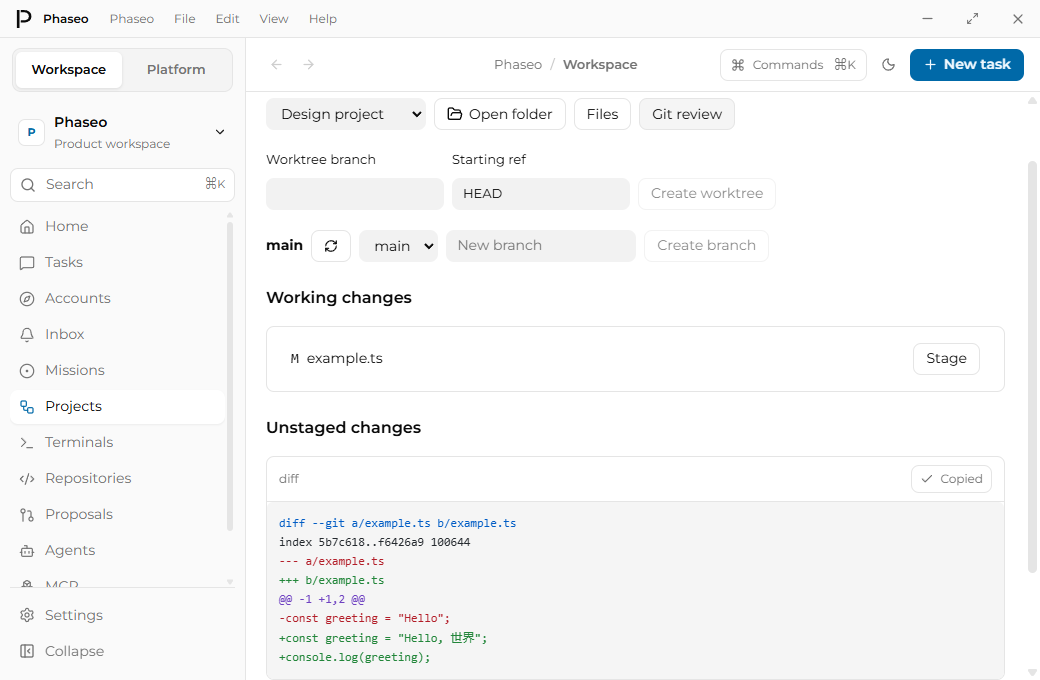
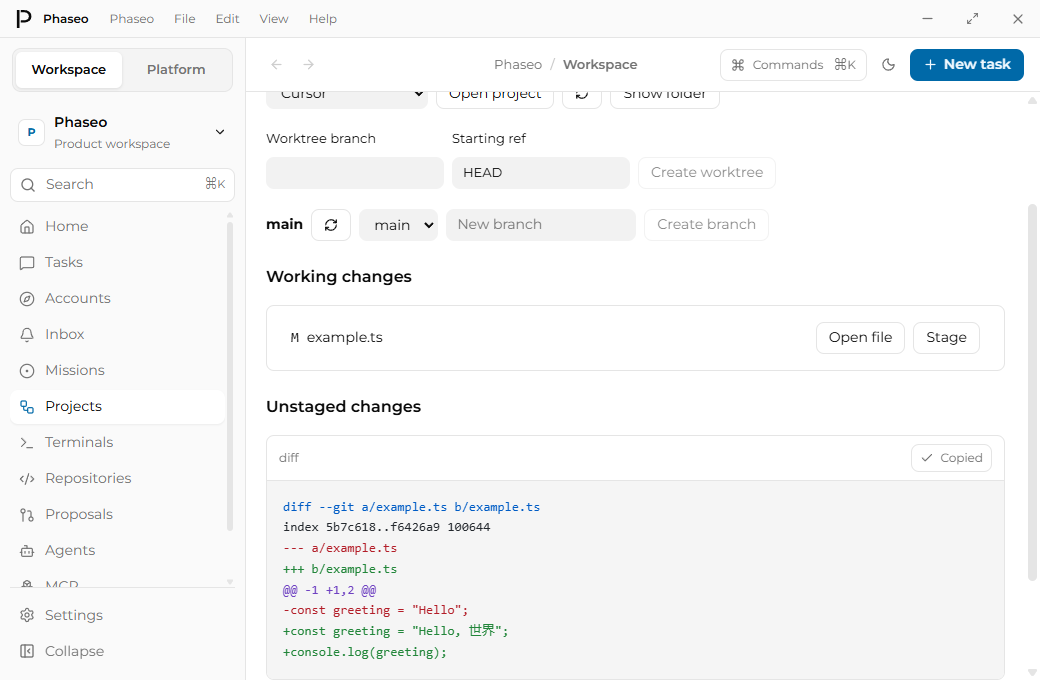
feat(desktop): open projects and files in external editors

diff --git a/apps/desktop/src/renderer/views/Projects.tsx b/apps/desktop/src/renderer/views/Projects.tsx
@@ -1,6 +1,7 @@
 import { useEffect, useRef, useState } from "react";
 import { ArrowLeft, File, Folder, FolderOpen, RefreshCw } from "lucide-react";
 import type { GitCommand, GitReview, ProjectFile } from "../../shared/workspace";
+import type { EditorId, EditorInstallation, ProjectOpenRequest } from "../../shared/editors";
 import { emptyOverview, type WorkspaceOverview } from "../../shared/workspaceOverview";
 import { CodeBlock } from "../components/MessageContent";
 import { usePersistedState } from "../lib/persistedState";
@@ -28,6 +29,19 @@ export function Projects() {
 	const [tab, setTab] = useState<"files" | "git">("files");
 	const [error, setError] = useState("");
 	const [loading, setLoading] = useState(false);
+	const [editors, setEditors] = useState<EditorInstallation[]>([]);
+	const [preferredEditor, setPreferredEditor] = usePersistedState<EditorId | undefined>("phaseo.desktop.editor", undefined);
+	const [editorRefresh, setEditorRefresh] = useState(0);
+	const [editorsLoading, setEditorsLoading] = useState(false);
+	const [editorError, setEditorError] = useState("");
+	const [editorBusy, setEditorBusy] = useState(false);
+	const editorPending = useRef(false);
+	const editor = editors.find(value => value.id === preferredEditor && value.available) ?? editors.find(value => value.available);
+	useEffect(() => {
+		if (!api) return; let active = true; setEditorsLoading(true); setEditorError("");
+		void api.editors().then(value => { if (active) setEditors(value); }, reason => { if (active) setEditorError(String(reason)); }).finally(() => { if (active) setEditorsLoading(false); });
+		return () => { active = false; };
+	}, [api, editorRefresh]);
 	const previewRequest = useRef(0);
 	useEffect(() => {
 		if (!api) return;
@@ -45,9 +59,17 @@ export function Projects() {
 		return () => { active = false; };
 	}, [api, id, directory, tab, refresh]);
 	function canNavigate() {
+		if (editorPending.current) { setError("Wait for the editor to open."); return false; }
 		if (gitBusy) { setError("Wait for the Git action to finish."); return false; }
 		if (saving || dirty) { setError("Save or discard this edit before opening another file or project."); return false; }
 		setEditing(false); return true;
+	}
+	async function openTarget(request: ProjectOpenRequest) {
+		if (!api || !id || editorPending.current || !canNavigate()) return;
+		editorPending.current = true; setEditorBusy(true); setError("");
+		try { await api.openProject(id, request); }
+		catch (reason) { setError(String(reason).replace(/^Error: Error invoking remote method '[^']+': (?:Error: )?/, "")); }
+		finally { editorPending.current = false; setEditorBusy(false); }
 	}
 	async function changeGit(command: GitCommand) {
 		if (!api || gitBusy) return;
@@ -83,11 +105,15 @@ export function Projects() {
 	}
 	return <div className="page task-workspace project-page"><section>
 		<h1>Projects</h1><div className="project-toolbar"><select aria-label="Project" value={id} onChange={event => { if (!canNavigate()) return; setId(event.target.value); setConfirmRemove(false); setDirectory(""); setPreview(undefined); setReview(undefined); }}><option value="">Choose a project</option>{workspace.projects.filter(project => !project.worktree?.removedAt).map(project => <option key={project.id} value={project.id}>{project.name}</option>)}</select><button type="button" onClick={() => { if (api) void api.chooseProject().then(setWorkspace, reason => setError(String(reason))); }}><FolderOpen size={16} /> Open folder</button><button type="button" aria-pressed={tab === "files"} onClick={() => { if (canNavigate()) setTab("files"); }}>Files</button><button type="button" aria-pressed={tab === "git"} onClick={() => { if (canNavigate()) setTab("git"); }}>Git review</button>{workspace.projects.find(project => project.id === id)?.worktree && <button type="button" disabled={gitBusy} onClick={() => { if (canNavigate()) setConfirmRemove(true); }}>Remove worktree</button>}</div>
+		{id && <div className="project-toolbar project-editor-actions" aria-label="External editor"><select aria-label="External editor" value={editor?.id ?? ""} disabled={editorsLoading || editorBusy} onChange={event => setPreferredEditor(event.target.value as EditorId)}>{!editor && <option value="">{editorsLoading ? "Finding editors…" : "No editors found"}</option>}{editors.map(value => <option key={value.id} value={value.id} disabled={!value.available}>{value.name}{!value.available ? " (unavailable)" : ""}</option>)}</select><button type="button" disabled={!editor || editorsLoading || editorBusy || gitBusy || saving || dirty} onClick={() => { if (editor) void openTarget({ editor: editor.id }); }}>Open project</button><button type="button" aria-label="Refresh editors" disabled={editorsLoading || editorBusy} onClick={() => setEditorRefresh(value => value + 1)}><RefreshCw size={14} /></button><button type="button" disabled={editorBusy || gitBusy || saving || dirty} onClick={() => void openTarget({ editor: "file-manager" })}>Show folder</button></div>}
+		{editorError && <p className="task-error" role="alert">{editorError}</p>}
+		{editorBusy && <p className="task-muted" role="status">Opening…</p>}
+		{id && !editorsLoading && !editor && !editorError && <p className="task-muted">Install an editor, then refresh the list.</p>}
 		{confirmRemove && <section className="task-setup" aria-label="Remove worktree"><p>Remove this checkout and its ignored files? The branch and conversations are retained.</p><button type="button" disabled={gitBusy} onClick={() => void removeWorktree()}>Remove checkout</button><button type="button" disabled={gitBusy} onClick={() => setConfirmRemove(false)}>Cancel</button></section>}
 		{error && <p className="task-error" role="alert">{error}</p>}
 		{loading && <p className="task-muted" role="status">Loading…</p>}
 		{!id && <p className="task-muted">Open a folder to browse files and review changes.</p>}
-		{id && tab === "files" && <div className="project-browser"><aside><button type="button" disabled={!directory} onClick={() => { if (!canNavigate()) return; setDirectory(directory.split("/").slice(0, -1).join("/")); setPreview(undefined); }}><ArrowLeft size={14} /> {directory || "Project root"}</button>{files.map(file => <button type="button" key={file.path} onClick={() => void open(file)}>{file.directory ? <Folder size={14} /> : <File size={14} />}{file.name}</button>)}</aside><section>{preview ? <><div className="project-toolbar"><strong>{preview.filename}{dirty ? " • Unsaved" : ""}</strong>{editing ? <><button type="button" disabled={!dirty || saving} onClick={() => void save()}>{saving ? "Saving…" : "Save"}</button><button type="button" disabled={saving} onClick={() => { setDraft(preview.text); setSavedEdit(undefined); setEditing(false); setError(""); }}>Discard</button></> : <button type="button" onClick={() => setEditing(true)}>Edit</button>}</div>{editing ? <textarea className="project-editor" aria-label={`Edit ${preview.filename}`} spellCheck={false} disabled={saving} value={draft} onChange={event => { setDraft(event.target.value); setSavedEdit(event.target.value === preview.text ? undefined : { projectId: id, ...preview, draft: event.target.value }); }} onKeyDown={event => { if ((event.ctrlKey || event.metaKey) && event.key === "s") { event.preventDefault(); void save(); } }} /> : <CodeBlock text={preview.text} language={preview.filename.split(".").at(-1)?.toLowerCase()} />}</> : <p className="task-muted">Select a file to preview it.</p>}</section></div>}
+		{id && tab === "files" && <div className="project-browser"><aside><button type="button" disabled={!directory} onClick={() => { if (!canNavigate()) return; setDirectory(directory.split("/").slice(0, -1).join("/")); setPreview(undefined); }}><ArrowLeft size={14} /> {directory || "Project root"}</button>{files.map(file => <button type="button" key={file.path} onClick={() => void open(file)}>{file.directory ? <Folder size={14} /> : <File size={14} />}{file.name}</button>)}</aside><section>{preview ? <><div className="project-toolbar"><strong>{preview.filename}{dirty ? " • Unsaved" : ""}</strong>{editing ? <><button type="button" disabled={!dirty || saving} onClick={() => void save()}>{saving ? "Saving…" : "Save"}</button><button type="button" disabled={saving} onClick={() => { setDraft(preview.text); setSavedEdit(undefined); setEditing(false); setError(""); }}>Discard</button></> : <div className="project-preview-actions"><button type="button" disabled={editorBusy} onClick={() => setEditing(true)}>Edit</button><button type="button" disabled={!editor || editorBusy || gitBusy} onClick={() => { if (editor) void openTarget({ editor: editor.id, filename: preview.filename }); }}>Open in {editor?.name ?? "editor"}</button><button type="button" disabled={editorBusy || gitBusy} onClick={() => void openTarget({ editor: "file-manager", filename: preview.filename })}>Reveal file</button></div>}</div>{editing ? <textarea className="project-editor" aria-label={`Edit ${preview.filename}`} spellCheck={false} disabled={saving} value={draft} onChange={event => { setDraft(event.target.value); setSavedEdit(event.target.value === preview.text ? undefined : { projectId: id, ...preview, draft: event.target.value }); }} onKeyDown={event => { if ((event.ctrlKey || event.metaKey) && event.key === "s") { event.preventDefault(); void save(); } }} /> : <CodeBlock text={preview.text} language={preview.filename.split(".").at(-1)?.toLowerCase()} />}</> : <p className="task-muted">Select a file to preview it.</p>}</section></div>}
 		{id && tab === "git" && review && <section className="project-review">
 			<form className="project-toolbar" aria-label="Create worktree" onSubmit={event => { event.preventDefault(); void createWorktree(); }}><label>Worktree branch<input aria-label="Worktree branch" value={worktreeBranch} onChange={event => setWorktreeBranch(event.target.value)} maxLength={200} required disabled={gitBusy} /></label><label>Starting ref<input aria-label="Worktree starting ref" list="worktree-refs" value={worktreeBase} onChange={event => setWorktreeBase(event.target.value)} maxLength={1000} required disabled={gitBusy} /><datalist id="worktree-refs"><option value="HEAD" />{branches.map(branch => <option key={branch} value={branch} />)}</datalist></label><button type="submit" disabled={gitBusy || !worktreeBranch.trim() || !worktreeBase.trim()}>Create worktree</button></form>
 			<div className="project-toolbar">
@@ -102,6 +128,7 @@ export function Projects() {
 			<h2>Working changes</h2>
 			{review.files.length ? <div className="git-file-list">{review.files.map(file => <div className="project-toolbar" key={file.path}>
 				<code>{file.indexStatus}{file.worktreeStatus}</code><span>{file.oldPath ? `${file.oldPath} → ` : ""}{file.path}</span>
+				{![file.indexStatus, file.worktreeStatus].includes("D") && <button type="button" disabled={!editor || editorBusy || gitBusy} onClick={() => { if (editor) void openTarget({ editor: editor.id, filename: file.path }); }}>Open file</button>}
 				{file.worktreeStatus !== " " && <button type="button" disabled={gitBusy} onClick={() => void changeGit({ type: "stage", filename: file.path })}>Stage</button>}
 				{![" ", "?"].includes(file.indexStatus) && <button type="button" disabled={gitBusy} onClick={() => void changeGit({ type: "unstage", filename: file.path })}>Unstage</button>}
 			</div>)}</div> : <p className="task-muted">Working tree is clean.</p>}

diff --git a/apps/desktop/src/main/projectEditors.test.ts b/apps/desktop/src/main/projectEditors.test.ts
@@ -1,0 +1,90 @@
+import { mkdtempSync, mkdirSync, readFileSync, rmSync, symlinkSync, writeFileSync } from "node:fs";
+import { tmpdir } from "node:os";
+import path from "node:path";
+import { describe, expect, it, vi } from "vitest";
+import { editorDefinitions, validateProjectOpen } from "../shared/editors";
+import { editorArguments, editorCandidates, findEditor, launchEditor, openProjectTarget } from "./projectEditors";
+
+describe("external editors", () => {
+	it("discovers native installations without treating current-directory shims as commands", async () => {
+		const directory = mkdtempSync(path.join(tmpdir(), "phaseo-editor-"));
+		try {
+			const bin = path.join(directory, "bin"); mkdirSync(bin);
+			writeFileSync(path.join(bin, "code.cmd"), "must not execute");
+			const lookup = { platform: "win32" as const, searchPath: `.;${bin}`, home: directory };
+			const editor = editorDefinitions[0];
+			expect(editorCandidates(editor, lookup).every(candidate => path.win32.isAbsolute(candidate))).toBe(true);
+			if (process.platform === "win32") {
+				expect(await findEditor(editor, lookup)).toBeUndefined();
+				writeFileSync(path.join(directory, "Code.exe"), "owned executable stand-in");
+				expect(await findEditor(editor, lookup)).toBe(path.join(directory, "Code.exe"));
+			}
+			expect(editorCandidates(editor, { platform: "darwin", searchPath: ".:/usr/bin", home: "/Users/fixture" })).toContain("/Applications/Visual Studio Code.app/Contents/MacOS/Electron");
+		} finally { rmSync(directory, { recursive: true, force: true }); }
+	});
+	it("opens registered project targets as literal editor arguments and reveals files without executing them", async () => {
+		const directory = mkdtempSync(path.join(tmpdir(), "phaseo-editor-"));
+		const project = path.join(directory, "project"); mkdirSync(project);
+		const filename = "notes & $(literal) # 世界.txt"; writeFileSync(path.join(project, filename), "owned text");
+		const ports = { find: vi.fn(async () => "/owned/editor"), launch: vi.fn(async () => undefined), reveal: vi.fn(), openFolder: vi.fn(async () => "") };
+		try {
+			await openProjectTarget(project, { editor: "cursor", filename }, ports);
+			expect(ports.launch).toHaveBeenCalledWith("/owned/editor", ["--classic", path.join(project, filename)], project);
+			await openProjectTarget(project, { editor: "vscode" }, ports);
+			expect(ports.launch).toHaveBeenLastCalledWith("/owned/editor", [project], project);
+			await openProjectTarget(project, { editor: "file-manager", filename }, ports);
+			expect(ports.reveal).toHaveBeenCalledWith(path.join(project, filename));
+			await openProjectTarget(project, { editor: "file-manager" }, ports);
+			expect(ports.openFolder).toHaveBeenCalledWith(project);
+			expect(ports.launch).toHaveBeenCalledTimes(2);
+			expect(editorArguments(editorDefinitions.find(editor => editor.id === "kiro")!, project)).toEqual(["ide", project]);
+			expect(editorArguments(editorDefinitions.find(editor => editor.id === "kiro")!, project, "Kiro.exe")).toEqual([project]);
+		} finally { rmSync(directory, { recursive: true, force: true }); }
+	});
+	it("rejects outside paths, links, directories masquerading as files and invalid editors before launch", async () => {
+		const directory = mkdtempSync(path.join(tmpdir(), "phaseo-editor-"));
+		const project = path.join(directory, "project"), outside = path.join(directory, "outside"); mkdirSync(project); mkdirSync(outside);
+		writeFileSync(path.join(outside, "private.txt"), "outside");
+		symlinkSync(outside, path.join(project, "link"), process.platform === "win32" ? "junction" : "dir");
+		const ports = { find: vi.fn(async () => "/owned/editor"), launch: vi.fn(async () => undefined), reveal: vi.fn(), openFolder: vi.fn(async () => "") };
+		try {
+			for (const filename of ["../outside/private.txt", "link/private.txt", outside]) await expect(openProjectTarget(project, { editor: "vscode", filename }, ports)).rejects.toThrow();
+			await expect(openProjectTarget(project, { editor: "vscode", filename: "link" }, ports)).rejects.toThrow();
+			await expect(openProjectTarget(project, { editor: "vscode", filename: "." }, ports)).rejects.toThrow("existing");
+			expect(() => validateProjectOpen({ editor: "powershell.exe" })).toThrow("supported editor");
+			expect(() => validateProjectOpen({ editor: "vscode", filename: "\0" })).toThrow("Invalid file");
+			expect(ports.find).not.toHaveBeenCalled(); expect(ports.launch).not.toHaveBeenCalled(); expect(ports.reveal).not.toHaveBeenCalled();
+		} finally { rmSync(directory, { recursive: true, force: true }); }
+	});
+	it("reports unavailable installations and operating-system failures", async () => {
+		const project = mkdtempSync(path.join(tmpdir(), "phaseo-editor-"));
+		try {
+			const ports = { find: vi.fn(async () => undefined), launch: vi.fn(async () => undefined), reveal: vi.fn(), openFolder: vi.fn(async () => "Owned folder failure") };
+			await expect(openProjectTarget(project, { editor: "vscode" }, ports)).rejects.toThrow("unavailable");
+			await expect(openProjectTarget(project, { editor: "file-manager" }, ports)).rejects.toThrow("Owned folder failure");
+			await expect(launchEditor(path.join(project, "missing-editor.exe"), [], project)).rejects.toThrow();
+			expect(ports.launch).not.toHaveBeenCalled();
+		} finally { rmSync(project, { recursive: true, force: true }); }
+	});
+	it("launches a real owned process with literal arguments and clears inherited Electron/Node execution flags", async () => {
+		const project = mkdtempSync(path.join(tmpdir(), "phaseo-editor-"));
+		const output = path.join(project, "result.json"), literal = "世界 & $(do-not-run) # text";
+		const originalNode = process.env.NODE_OPTIONS, originalElectron = process.env.ELECTRON_RUN_AS_NODE;
+		try {
+			process.env.NODE_OPTIONS = "--invalid-owned-option"; process.env.ELECTRON_RUN_AS_NODE = "1";
+			await launchEditor(process.execPath, ["-e", "require('node:fs').writeFileSync(process.argv[1], JSON.stringify({args:process.argv.slice(2),cwd:process.cwd(),pid:process.pid,node:process.env.NODE_OPTIONS,electron:process.env.ELECTRON_RUN_AS_NODE}))", output, literal], project);
+			let result: string | undefined;
+			for (let attempt = 0; attempt < 100; attempt++) { try { result = readFileSync(output, "utf8"); break; } catch { await new Promise(resolve => setTimeout(resolve, 20)); } }
+			expect(result).toBeDefined();
+			const { pid, ...record } = JSON.parse(result!);
+			expect(record).toEqual({ args: [literal], cwd: project });
+			let exited = false;
+			for (let attempt = 0; attempt < 100; attempt++) { try { process.kill(pid, 0); } catch { exited = true; break; } await new Promise(resolve => setTimeout(resolve, 20)); }
+			expect(exited).toBe(true);
+		} finally {
+			if (originalNode === undefined) delete process.env.NODE_OPTIONS; else process.env.NODE_OPTIONS = originalNode;
+			if (originalElectron === undefined) delete process.env.ELECTRON_RUN_AS_NODE; else process.env.ELECTRON_RUN_AS_NODE = originalElectron;
+			rmSync(project, { recursive: true, force: true });
+		}
+	});
+});

diff --git a/apps/desktop/src/main/projectEditors.ts b/apps/desktop/src/main/projectEditors.ts
@@ -1,0 +1,77 @@
+import { access, stat } from "node:fs/promises";
+import { constants } from "node:fs";
+import { spawn } from "node:child_process";
+import path from "node:path";
+import { homedir } from "node:os";
+import { editorDefinitions, validateProjectOpen, type EditorId, type EditorInstallation } from "../shared/editors";
+import { resolveProjectPath } from "./projectFiles";
+
+type EditorDefinition = typeof editorDefinitions[number];
+type Lookup = { platform: NodeJS.Platform; searchPath: string; home: string; localAppData?: string; programFiles?: string };
+const lookupDefaults = (): Lookup => ({ platform: process.platform, searchPath: process.env.PATH ?? "", home: homedir(), localAppData: process.env.LOCALAPPDATA, programFiles: process.env.ProgramFiles });
+
+export function editorCandidates(editor: EditorDefinition, lookup: Lookup): string[] {
+	const api = lookup.platform === "win32" ? path.win32 : path.posix;
+	const directories = lookup.searchPath.split(lookup.platform === "win32" ? ";" : ":").filter(directory => api.isAbsolute(directory));
+	const candidates = directories.flatMap(directory => lookup.platform === "win32"
+		? [...editor.windows.map(name => api.join(directory, name)), ...editor.windows.map(name => api.resolve(directory, "..", name))]
+		: editor.commands.map(name => api.join(directory, name)));
+	if (lookup.platform === "darwin") for (const root of ["/Applications", api.join(lookup.home, "Applications")]) candidates.push(api.join(root, editor.mac));
+	if (lookup.platform === "win32") {
+		const folders: Partial<Record<EditorId, string>> = { vscode: "Microsoft VS Code", cursor: "cursor", "vscode-insiders": "Microsoft VS Code Insiders", vscodium: "VSCodium", zed: "Zed", trae: "Trae", kiro: "Kiro", antigravity: "Antigravity" };
+		const folder = folders[editor.id];
+		if (folder) for (const root of [lookup.localAppData && api.join(lookup.localAppData, "Programs"), lookup.programFiles]) if (root) candidates.push(...editor.windows.map(name => api.join(root, folder, name)));
+	}
+	return [...new Set(candidates)];
+}
+
+export async function findEditor(editor: EditorDefinition, lookup = lookupDefaults()): Promise<string | undefined> {
+	for (const candidate of editorCandidates(editor, lookup)) {
+		try { if ((await stat(candidate)).isFile()) { await access(candidate, lookup.platform === "win32" ? constants.F_OK : constants.X_OK); return candidate; } } catch { /* Try the next installation. */ }
+	}
+}
+
+export async function editorInstallations(): Promise<EditorInstallation[]> {
+	return Promise.all(editorDefinitions.map(async editor => ({ id: editor.id, name: editor.name, available: Boolean(await findEditor(editor)) })));
+}
+
+export function editorArguments(editor: EditorDefinition, target: string, executable?: string): string[] {
+	const args = "args" in editor ? [...editor.args] : [];
+	// The Kiro terminal launcher needs `ide`; its native app already is the IDE.
+	if (editor.id === "kiro" && executable && path.basename(executable) !== "kiro") args.length = 0;
+	return [...args, target];
+}
+
+export async function launchEditor(executable: string, args: string[], cwd: string): Promise<void> {
+	const environment = { ...process.env };
+	delete environment.ELECTRON_RUN_AS_NODE;
+	delete environment.NODE_OPTIONS;
+	await new Promise<void>((resolve, reject) => {
+		const child = spawn(executable, args, { cwd, env: environment, shell: false, windowsHide: true, detached: true, stdio: "ignore" });
+		child.once("error", reject);
+		child.once("spawn", () => { child.unref(); resolve(); });
+	});
+}
+
+type EditorPorts = {
+	find: typeof findEditor;
+	launch: typeof launchEditor;
+	reveal: (filename: string) => void;
+	openFolder: (directory: string) => Promise<string>;
+};
+
+export async function openProjectTarget(root: string, value: unknown, ports: EditorPorts): Promise<void> {
+	const request = validateProjectOpen(value);
+	const target = await resolveProjectPath(root, request.filename ?? "");
+	const metadata = await stat(target);
+	if (request.filename ? !metadata.isFile() : !metadata.isDirectory()) throw new Error("Choose an existing project file or folder.");
+	if (request.editor === "file-manager") {
+		if (request.filename) ports.reveal(target);
+		else { const error = await ports.openFolder(target); if (error) throw new Error(error); }
+		return;
+	}
+	const editor = editorDefinitions.find(editor => editor.id === request.editor)!;
+	const executable = await ports.find(editor);
+	if (!executable) throw new Error(`${editor.name} is unavailable. Install it and refresh the editor list.`);
+	await ports.launch(executable, editorArguments(editor, target, executable), await resolveProjectPath(root, ""));
+}

diff --git a/apps/desktop/src/renderer/styles.css b/apps/desktop/src/renderer/styles.css
@@ -231,12 +231,17 @@
 .project-toolbar { display: flex; flex-wrap: wrap; gap: 8px; align-items: center; margin-bottom: 20px; }
 .project-toolbar label { min-width: 0; display: grid; gap: 8px; font-size: 13px; }
 form.project-toolbar { align-items: end; }
+.project-preview-actions { display: flex; flex-wrap: wrap; align-items: center; gap: 8px; }
+.project-editor-actions select { max-width: 240px; }
 .project-toolbar button[aria-pressed="true"] { background: var(--surface-muted); }
-.project-browser { display: flex; border: 1px solid var(--border); border-radius: 8px; min-height: 400px; }
-.project-browser > aside { flex: 0 0 230px; min-width: 0; border-right: 1px solid var(--border); padding: 16px; }
+.project-browser { display: flex; height: clamp(320px, calc(100vh - 324px), 640px); min-height: 0; overflow: hidden; border: 1px solid var(--border); border-radius: 8px; }
+.project-browser > aside { flex: 0 0 230px; min-width: 0; border-right: 1px solid var(--border); padding: 16px; overflow: auto; scrollbar-gutter: stable; }
 .project-browser > aside button { width: 100%; justify-content: flex-start; margin-bottom: 4px; overflow-wrap: anywhere; text-align: left; }
-.project-browser > section { flex: 1; min-width: 0; padding: 24px; }
-.project-browser > section > .project-toolbar { justify-content: space-between; gap: 16px; margin-bottom: 24px; }
+.project-browser > section { display: flex; flex-direction: column; flex: 1; min-width: 0; min-height: 0; padding: 24px; }
+.project-browser > section > .message-code-block { display: flex; flex-direction: column; flex: 1; min-height: 0; margin: 0; }
+.project-browser .message-code-actions { flex-shrink: 0; }
+.project-browser .message-code-block pre { min-height: 0; flex: 1; }
+.project-browser > section > .project-toolbar { justify-content: space-between; flex-shrink: 0; gap: 16px; margin-bottom: 24px; }
 .project-browser > section > .project-toolbar strong { min-width: 0; flex: 1 1 160px; overflow-wrap: anywhere; }
 .project-browser > section > .task-muted { margin: 0; line-height: 1.6; }
 .project-review h2 { margin: 24px 0 16px; font-size: 16px; font-weight: 600; }
@@ -244,7 +249,7 @@ form.project-toolbar { align-items: end; }
 .git-file-list .project-toolbar { margin: 0; padding: 16px 24px; border-bottom: 1px solid var(--border); }
 .git-file-list .project-toolbar:last-child { border-bottom: 0; }
 .git-file-list .project-toolbar > span { flex: 1 1 200px; min-width: 0; overflow-wrap: anywhere; }
-.project-editor { width: 100%; min-height: 55vh; resize: vertical; border: 1px solid var(--border); border-radius: 6px; padding: 12px; background: var(--surface-muted); color: var(--text); font: 13px/1.6 ui-monospace, monospace; tab-size: 4; }
+.project-editor { width: 100%; flex: 1; min-height: 0; resize: none; border: 1px solid var(--border); border-radius: 6px; padding: 12px; background: var(--surface-muted); color: var(--text); font: 13px/1.6 ui-monospace, monospace; tab-size: 4; }
 .command-palette { width: min(620px, calc(100vw - 40px)); padding: 0; margin-top: 15vh; border: 1px solid var(--border); border-radius: 12px; background: var(--surface); color: var(--text); box-shadow: var(--shadow); }
 .command-palette::backdrop { background: rgb(0 0 0 / .5); }
 .command-search { display: flex; align-items: center; gap: 12px; padding: 16px; border-bottom: 1px solid var(--border); }

diff --git a/apps/desktop/src/shared/editors.ts b/apps/desktop/src/shared/editors.ts
@@ -1,0 +1,26 @@
+export const editorDefinitions = [
+	{ id: "vscode", name: "VS Code", commands: ["code"], windows: ["Code.exe"], mac: "Visual Studio Code.app/Contents/MacOS/Electron" },
+	{ id: "cursor", name: "Cursor", commands: ["cursor"], windows: ["Cursor.exe"], mac: "Cursor.app/Contents/MacOS/Cursor", args: ["--classic"] },
+	{ id: "vscode-insiders", name: "VS Code Insiders", commands: ["code-insiders"], windows: ["Code - Insiders.exe"], mac: "Visual Studio Code - Insiders.app/Contents/MacOS/Electron" },
+	{ id: "vscodium", name: "VSCodium", commands: ["codium"], windows: ["VSCodium.exe"], mac: "VSCodium.app/Contents/MacOS/Electron" },
+	{ id: "zed", name: "Zed", commands: ["zed", "zeditor"], windows: ["zed.exe"], mac: "Zed.app/Contents/MacOS/zed" },
+	{ id: "trae", name: "Trae", commands: ["trae"], windows: ["Trae.exe"], mac: "Trae.app/Contents/MacOS/Trae" },
+	{ id: "kiro", name: "Kiro", commands: ["kiro"], windows: ["Kiro.exe"], mac: "Kiro.app/Contents/MacOS/Electron", args: ["ide"] },
+	{ id: "antigravity", name: "Antigravity", commands: ["antigravity-ide", "agy-ide"], windows: ["Antigravity.exe"], mac: "Antigravity.app/Contents/MacOS/Electron" },
+	...([
+		["idea", "IntelliJ IDEA"], ["aqua", "Aqua"], ["clion", "CLion"], ["datagrip", "DataGrip"], ["dataspell", "DataSpell"],
+		["goland", "GoLand"], ["phpstorm", "PhpStorm"], ["pycharm", "PyCharm"], ["rider", "Rider"], ["rubymine", "RubyMine"], ["rustrover", "RustRover"], ["webstorm", "WebStorm"],
+	] as const).map(([id, name]) => ({ id, name, commands: [id], windows: [`${id}64.exe`, `${id}.exe`], mac: `${name}.app/Contents/MacOS/${id}` })),
+] as const;
+
+export type EditorId = typeof editorDefinitions[number]["id"];
+export type EditorInstallation = { id: EditorId; name: string; available: boolean };
+export type ProjectOpenRequest = { editor: EditorId | "file-manager"; filename?: string };
+
+export function validateProjectOpen(value: unknown): ProjectOpenRequest {
+	if (!value || typeof value !== "object") throw new Error("Invalid editor request.");
+	const input = value as Record<string, unknown>;
+	if (typeof input.editor !== "string" || (input.editor !== "file-manager" && !editorDefinitions.some(editor => editor.id === input.editor))) throw new Error("Choose a supported editor.");
+	if (input.filename !== undefined && (typeof input.filename !== "string" || !input.filename || input.filename.length > 4096 || input.filename.includes("\0"))) throw new Error("Invalid file request.");
+	return { editor: input.editor as ProjectOpenRequest["editor"], ...(input.filename === undefined ? {} : { filename: input.filename as string }) };
+}

diff --git a/apps/desktop/src/main/index.ts b/apps/desktop/src/main/index.ts
@@ -13,6 +13,7 @@ import { grokModelCatalog } from "./grokModelCatalog";
 import { SecretVault } from "./secretVault";
 import { signInNative } from "./accountConnections";
 import { gitReview, listProjectFiles, readProjectFile } from "./projectFiles";
+import { editorInstallations, findEditor, launchEditor, openProjectTarget } from "./projectEditors";
 import { apiModels, codexModels } from "./modelCatalog";
 import { openCodeModels, piModels } from "./nativeModels";
 import { resolveOpenCodeCommand } from "./openCodeService";
@@ -169,6 +170,13 @@ ipcMain.handle("workspace:list-files", (event, id: unknown, directory: unknown) 
 	if (typeof directory !== "string") throw new Error("Invalid directory.");
 	return listProjectFiles(root, directory);
 });
+ipcMain.handle("workspace:editors", event => {
+	if (!senderWindow(event)) throw new Error("Untrusted editor request.");
+	return editorInstallations();
+});
+ipcMain.handle("workspace:open-project", (event, id: unknown, request: unknown) => openProjectTarget(projectRoot(event, id), request, {
+	find: findEditor, launch: launchEditor, reveal: filename => shell.showItemInFolder(filename), openFolder: directory => shell.openPath(directory),
+}));
 ipcMain.handle("workspace:read-file", (event, id: unknown, filename: unknown) => {
 	const root = projectRoot(event, id);
 	if (typeof filename !== "string") throw new Error("Invalid filename.");

diff --git a/apps/desktop/src/shared/workspace.ts b/apps/desktop/src/shared/workspace.ts
@@ -4,6 +4,7 @@ import type { WorkspacePreferences } from "./preferences";
 import type { Mission, MissionCommand } from "./missions";
 import type { TaskHistoryPage, TaskHistoryQuery } from "./taskHistory";
 import type { WorkspaceOverview } from "./workspaceOverview";
+import type { EditorInstallation, ProjectOpenRequest } from "./editors";
 export const harnesses = ["phaseo", "codex", "claude", "opencode", "pi", "cursor", "grok", "antigravity", "acp"] as const;
 export type Harness = typeof harnesses[number];
 export type TaskStatus = "idle" | "running" | "waiting" | "limited" | "failed" | "interrupted" | "completed";
@@ -104,6 +105,8 @@ export type WorkspaceApi = {
 	accountStatus: (harness: "codex" | "claude" | "cursor" | "grok", accountId?: string) => Promise<AccountStatus>;
 	cancelSignIn: (accountId: string) => Promise<void>;
 	listFiles: (projectId: string, directory: string) => Promise<ProjectFile[]>;
+	editors: () => Promise<EditorInstallation[]>;
+	openProject: (projectId: string, request: ProjectOpenRequest) => Promise<void>;
 	readFile: (projectId: string, filename: string) => Promise<string>;
 	readDocument: (projectId: string, filename: string) => Promise<{ text: string; hash: string }>;
 	writeDocument: (projectId: string, filename: string, text: string, expectedHash: string) => Promise<{ hash: string }>;

diff --git a/apps/desktop/src/preload/index.ts b/apps/desktop/src/preload/index.ts
@@ -42,6 +42,8 @@ const desktopApi: PhaseoDesktopApi = {
 		accountStatus: (harness, id) => ipcRenderer.invoke("workspace:account-status", harness, id),
 		cancelSignIn: id => ipcRenderer.invoke("workspace:cancel-sign-in", id),
 		listFiles: (id, directory) => ipcRenderer.invoke("workspace:list-files", id, directory),
+		editors: () => ipcRenderer.invoke("workspace:editors"),
+		openProject: (id, request) => ipcRenderer.invoke("workspace:open-project", id, request),
 		readFile: (id, filename) => ipcRenderer.invoke("workspace:read-file", id, filename),
 		readDocument: (id, filename) => ipcRenderer.invoke("workspace:read-document", id, filename),
 		writeDocument: (id, filename, text, expectedHash) => ipcRenderer.invoke("workspace:write-document", id, filename, text, expectedHash),

diff --git a/apps/desktop/WORKSPACE-PLAN.md b/apps/desktop/WORKSPACE-PLAN.md
@@ -38,6 +38,9 @@ does not establish completion. Tests must cover runtime behavior and UI states.
 
 ## Implementation and evidence
 
+Project/file editor integration now discovers 20 named editor families from absolute PATH entries and common native installation locations, remembers the selected available editor, and opens project folders or files from the preview/Git review. File-manager actions reveal a selected file or open a registered project folder. The main process revalidates sender, project availability, request schema and real paths before crossing the OS boundary. Editor processes use literal argument arrays with no shell and clear inherited Electron/Node execution flags. Five deterministic tests cover discovery, unsafe paths/links, missing installations, failure propagation and a real owned process; the Electron bridge workflow verifies registered paths and rejected requests using owned OS ports. The visual audit checks selected-editor persistence, one request for repeated clicks, failure/retry and preview/project/Git target selection. Source and packaged checks do not open installed editors or assert their UI behavior. Per-editor live launches, broader installation discovery, line/column links, remote targets, setup scripts and other file/editor capabilities remain parity work. The ledger stays unchecked. Patterns were compared with the pinned T3 Code editor contracts/preferences/launcher and https://code.visualstudio.com/docs/configure/command-line.
+
+
 Task-history pagination has a bounded SQLite query and trusted IPC/preload API. Pages return only task summaries, ordered by pins, updated time and a deterministic ID tie-breaker. Search checks titles and message text with Unicode case folding and literal punctuation. The renderer loads 50-row pages with loading, retry, empty and Load more states; changing search/archive resets paging and ignores obsolete requests. The isolated 155-task Electron workflow verifies later-page selection, Unicode message search, rapid searches, page reset, archive switching and exhausted/empty results. All renderer screens now consume metadata-only workspace snapshots. The full-history broadcast has been removed; command, account, MCP, import and worktree replies also omit conversation bodies. Runtime change observers and mission polling now read metadata rather than full history. Command and execution setup paths also use metadata or read accounts/projects/agents/MCP directly from their own tables. The overview still scans task metadata for each change. Selected-task IPC transfers complete histories, and explicitly expanded or continuously growing conversations can still increase DOM size, so the history ledger item stays unchecked.
 
 The history workflow passes against the Windows archive, including an owned failed-read fixture that preserves visible rows and succeeds after Retry. CI now runs source and packaged history checks. Active streaming timestamps do not continuously restart history loading; status transitions still refresh the list. Broader Electron fixtures wait for paged rows before opening native model/authentication tasks. Markdown component renderers retain stable identities so history refreshes do not remount code blocks.
@@ -239,7 +242,7 @@ Agent and MCP submit/cancel actions now share a full-width action row beneath th
 
 Conversation code now uses Shiki 4.4.3, matching the website's GitHub light/dark colours. Selected common grammars load locally on demand; unsupported or oversized blocks keep plain text. React token rendering preserves inert markup, indentation, Unicode and trailing newlines. Unit tests verify exact source preservation and bounded fallback; the rendered audit verifies visible colours and clipboard feedback in both themes/window sizes. Copy feedback now survives unrelated renders and resets only when the code text/language changes.
 
-Evidence: desktop lint/typecheck/build pass; 319 deterministic tests cover protocol,
+Evidence: desktop lint/typecheck/build pass; 324 deterministic tests cover protocol,
 queue ordering, cancellation, secret storage, filesystem boundaries, stream framing,
 and SDK approval continuation. An isolated Electron smoke test verified task CRUD,
 IPC validation, renderer navigation, real PTY execution, editor saving and stale-edit

diff --git a/apps/desktop/docs/design-audit.md b/apps/desktop/docs/design-audit.md
@@ -51,6 +51,8 @@ Reviewed against the live Phaseo Models and Chat layouts and the web application
 
 34. **Project surface consistency:** file navigation uses a 16-pixel inset, the filename and editing actions occupy opposite ends of a wrapping toolbar, and file/Git previews retain the shared code surface's 16-pixel padding, 13-pixel text and square inner corners. Dialog and empty-state headings use the bundled semibold weight. Rendered assertions check preview/navigation insets, text size, inner corners and toolbar alignment at both window sizes/themes.
 
+35. **External editor actions:** project editor selection and refresh use the shared wrapping toolbar; preview actions group Edit, Open and Reveal controls. The browser stays within the window with independently scrolling navigation/code and an editor that fills the available pane. Rendered assertions verify preview/edit containment. The preferred available editor persists. Pending opens disable repeated clicks and errors allow retry. Owned IPC fixtures verify project, file, reveal and Git targets in both themes/window sizes. Separate runtime tests verify paths and launching; these captures do not prove installed editor windows open.
+
 The sidebar now scrolls independently while Settings and Collapse remain accessible. Application menus align to the selected trigger as text sizes change. The desktop uses the web logo rather than an invented mark.
 
 ![Home](screenshots/ai-workspace.png)
